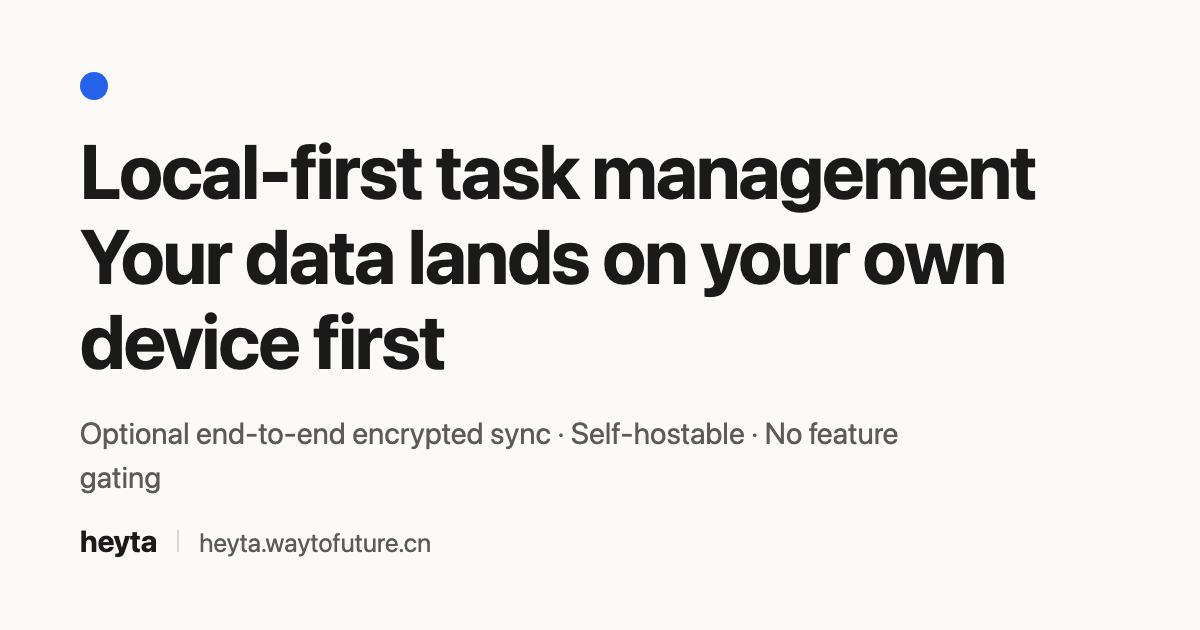
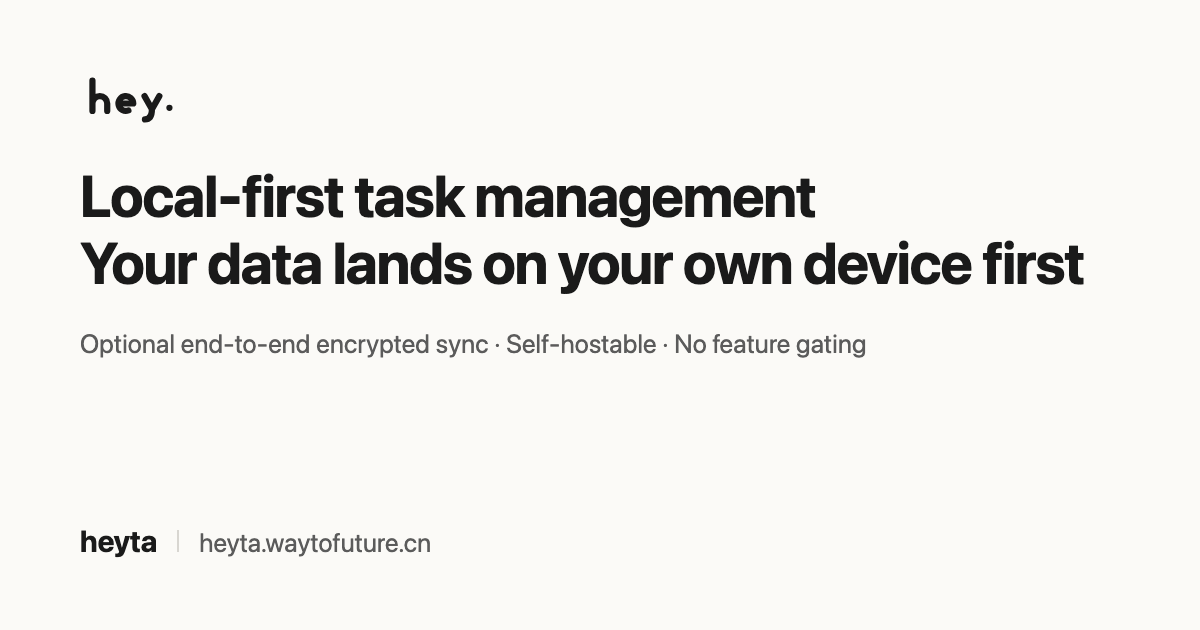
feat(landing): 分享卡印上品牌字标，几何从 BrandMark.tsx 导出
链接贴进微信/X/Slack 的第一眼此前只有一枚装饰圆点和纯文字 heyta，没有品牌字标。

- og-card.html：装饰圆点换成字标；字号按语言各一档
  · 英文标题在 76px 下会撑成三行并挤掉页脚间距，en 用 58px + text-wrap: balance
    （实测 62px 仍会掉一个孤字到第三行）
  · html lang 变成 {{LANG}} 占位符，配合 html[lang='en'] 的规则
- gen-og-card.mjs：字标 viewBox / path d / strokeWidth / 句点从
  src/components/BrandMark.tsx 正则导出，取不到就抛错
  · 那个组件文件头写着「将来若需要静态 SVG，从本组件导出，不要手抄路径」，这里照做
- 产物：public/og-card.png 与 og-card-en.png（1200×630，走既有 gen:og）

核对：landing typecheck 通过；两张卡真渲染后目视确认（zh 两行 + 页脚间距；en 两行无孤字）。

diff --git a/apps/landing/scripts/og-card.html b/apps/landing/scripts/og-card.html
@@ -16,7 +16,7 @@
   尺寸与排版都是**锁死的**（1200×630、固定字号）：卡片里不用相对单位，
   因为它不会被"响应式"地渲染 —— 那反而会让同一份源产出不同尺寸的图。
 -->
-<html lang="zh-CN">
+<html lang="{{LANG}}">
   <head>
     <meta charset="UTF-8" />
     <style>
@@ -47,12 +47,15 @@
 
       /* 品牌那条蓝：与 design tokens 的 primary 同一个色相，
          卡片是"同一个产品"的第一眼，不该出现第二种蓝。 */
-      .dot {
-        inline-size: 28px;
-        block-size: 28px;
-        border-radius: 50%;
-        background: {{PRIMARY}};
-        margin-block-end: 28px;
+      /* 字标就是这一格的品牌标识：它替换了原来那枚装饰圆点。
+         几何**不手抄** —— 由 gen-og-card.mjs 从 BrandMark.tsx 导出
+         （那个组件的注释里写着"将来若真的需要静态 SVG，从本组件导出"）。 */
+      .mark {
+        display: block;
+        block-size: 56px;
+        inline-size: auto;
+        margin-block-end: 34px;
+        color: {{PAPER_INK}};
       }
 
       .title {
@@ -60,6 +63,22 @@
         line-height: 1.12;
         font-weight: 700;
         letter-spacing: -0.02em;
+      }
+
+      /* 英文标题比中文长得多（同一句要占 1.5–2 倍字符宽），
+         用同一档字号会撑成三行并把页脚挤到没有间距。
+         这里按语言各给一档，尺寸本身仍是锁死的 1200×630。 */
+      html[lang='en'] .title {
+        font-size: 58px;
+        line-height: 1.16;
+        /* 英文标题在换行时容易只掉一个词到第三行（"…device / first"）。
+           Chrome 支持 text-wrap: balance，让两行长度接近，避免孤字。 */
+        text-wrap: balance;
+      }
+
+      html[lang='en'] .lede {
+        font-size: 26px;
+        max-inline-size: 1040px;
       }
 
       .lede {
@@ -96,7 +115,7 @@
   </head>
   <body>
     <div>
-      <div class="dot"></div>
+      {{WORDMARK_SVG}}
       <h1 class="title">{{CARD_TITLE1}}<br />{{CARD_TITLE2}}</h1>
       <p class="lede">{{CARD_LEDE}}</p>
     </div>
